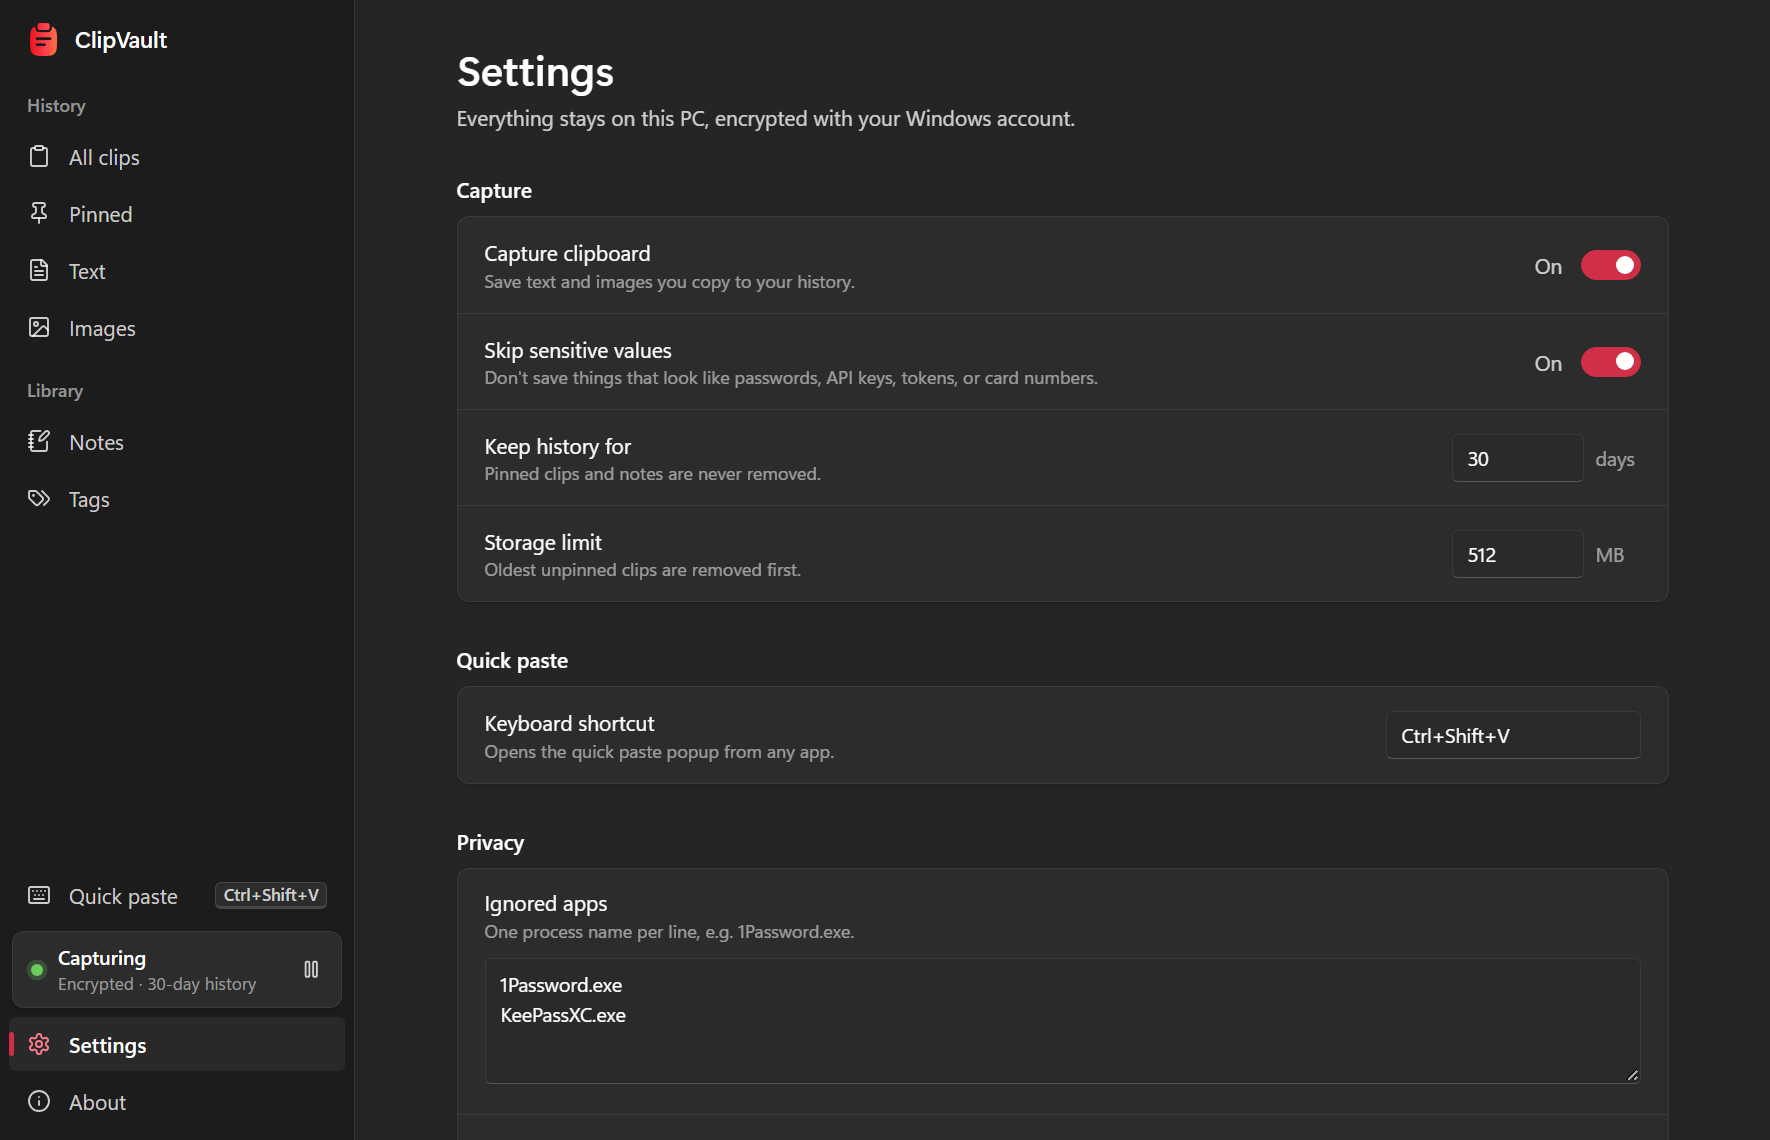
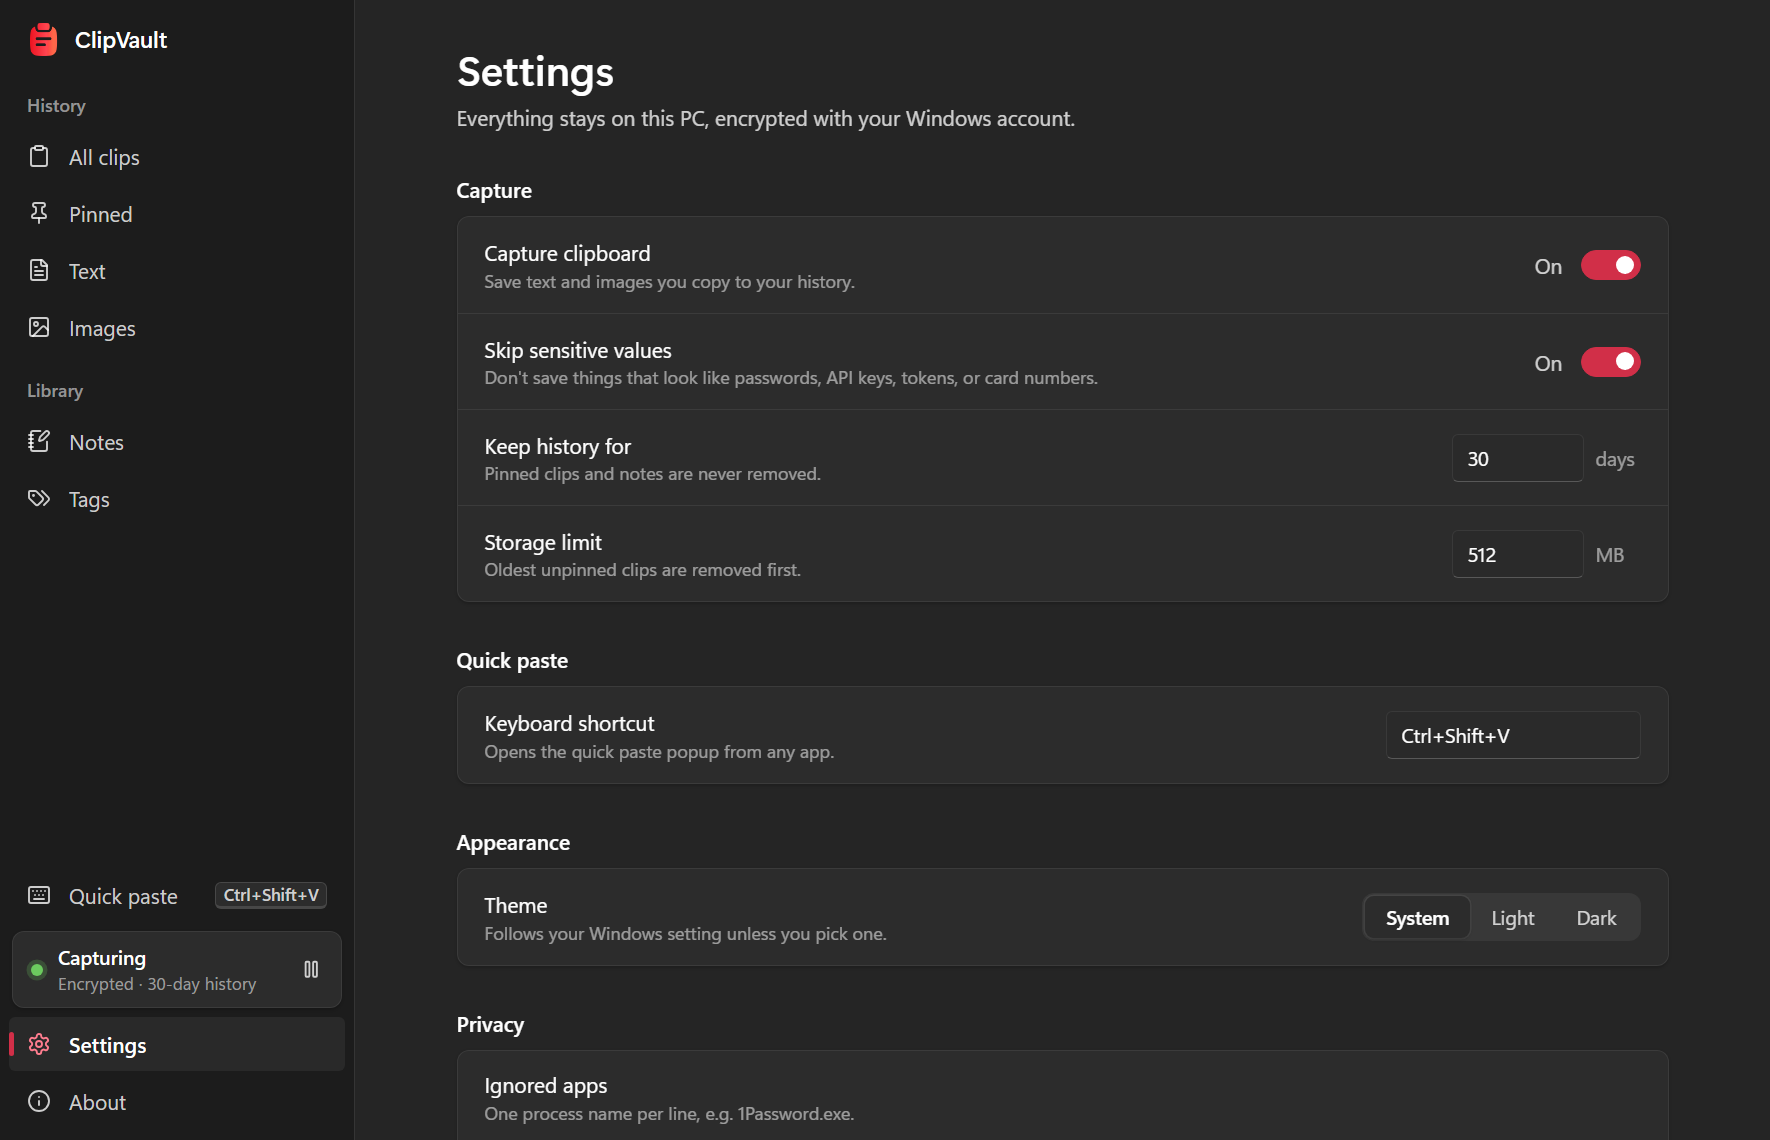
Release 1.4.0: free-to-use license and Appearance setting
- Replace the all-rights-reserved license with a free-to-use license (personal
  and commercial use, share the unmodified installer; source published for
  review and personal builds; modified redistribution and resale need
  permission). Update README, About page, package metadata, and installer text.
- Add Settings -> Appearance (System / Light / Dark), shared by the main window
  and the quick paste popup.
- Add ?theme= and ?select= to the browser demo; add light-mode and multi-select
  screenshots and refresh Settings; update docs and changelog.

diff --git a/src/components/SettingsPanel.tsx b/src/components/SettingsPanel.tsx
@@ -4,6 +4,8 @@ import type { ReactNode } from "react";
 import { version } from "../../package.json";
 import clipvaultIcon from "../assets/clipvault-icon.png";
 import { checkForUpdate, exportBackup, getSettings, importBackup, installUpdate, openExternal, updateSettings } from "../api";
+import { getTheme, setTheme } from "../lib/theme";
+import type { ThemeChoice } from "../lib/theme";
 import type { AppSettings, UpdateInfo } from "../types";
 
 export function SettingsPanel({
@@ -81,6 +83,12 @@ export function SettingsPanel({
           </SettingRow>
         </SettingsGroup>
 
+        <SettingsGroup title="Appearance">
+          <SettingRow label="Theme" description="Follows your Windows setting unless you pick one.">
+            <ThemePicker />
+          </SettingRow>
+        </SettingsGroup>
+
         <SettingsGroup title="Privacy">
           <SettingRow label="Ignored apps" description="One process name per line, e.g. 1Password.exe." stacked>
             <ListField value={settings.excludedApps} onCommit={(value) => patch({ excludedApps: value })} placeholder="KeePassXC.exe" />
@@ -137,6 +145,35 @@ export function SettingsPanel({
         </SettingsGroup>
       </div>
     </section>
+  );
+}
+
+const themeOptions: Array<{ key: ThemeChoice; label: string }> = [
+  { key: "system", label: "System" },
+  { key: "light", label: "Light" },
+  { key: "dark", label: "Dark" }
+];
+
+function ThemePicker() {
+  const [choice, setChoice] = useState<ThemeChoice>(getTheme);
+
+  return (
+    <div className="segmented" role="radiogroup" aria-label="Theme">
+      {themeOptions.map((option) => (
+        <button
+          key={option.key}
+          role="radio"
+          aria-checked={choice === option.key}
+          className={choice === option.key ? "on" : ""}
+          onClick={() => {
+            setTheme(option.key);
+            setChoice(option.key);
+          }}
+        >
+          {option.label}
+        </button>
+      ))}
+    </div>
   );
 }
 
@@ -327,7 +364,7 @@ export function InfoPanel({ update, onUpdateFound, onToast }: { update: UpdateIn
             </button>
           </SettingRow>
           <SettingRow label="License">
-            <span className="setting-value">Copyright Amirsalar Saberi rad. All rights reserved.</span>
+            <span className="setting-value">Free to use. Copyright © 2026 Amirsalar Saberi rad.</span>
           </SettingRow>
         </SettingsGroup>
       </div>

diff --git a/src/styles.css b/src/styles.css
@@ -56,7 +56,7 @@
 }
 
 @media (prefers-color-scheme: light) {
-  :root {
+  :root:not([data-theme="dark"]) {
     color-scheme: light;
 
     --bg-base: #eeeeee;
@@ -92,6 +92,43 @@
     --shadow-flyout: 0 8px 24px rgb(0 0 0 / 0.14), 0 0 0 1px rgb(0 0 0 / 0.05);
     --shadow-card: 0 1px 2px rgb(0 0 0 / 0.05);
   }
+}
+
+:root[data-theme="light"] {
+  color-scheme: light;
+
+  --bg-base: #eeeeee;
+  --bg-layer: #f8f8f8;
+  --bg-card: #ffffff;
+  --bg-card-hover: #f6f6f6;
+  --bg-input: #ffffff;
+  --bg-flyout: #f9f9f9;
+  --bg-subtle-hover: rgb(0 0 0 / 0.045);
+  --bg-subtle-active: rgb(0 0 0 / 0.07);
+  --bg-checker-a: #f1f1f1;
+  --bg-checker-b: #e6e6e6;
+
+  --stroke: rgb(0 0 0 / 0.075);
+  --stroke-strong: rgb(0 0 0 / 0.12);
+  --stroke-control: rgb(0 0 0 / 0.36);
+
+  --text: #1a1a1a;
+  --text-2: rgb(0 0 0 / 0.68);
+  --text-3: rgb(0 0 0 / 0.52);
+  --text-disabled: rgb(0 0 0 / 0.36);
+
+  --accent: #c0263e;
+  --accent-fill: #d12f48;
+  --accent-fill-hover: #bf2840;
+  --accent-soft: rgb(209 47 72 / 0.09);
+
+  --success: #0f7b0f;
+  --warning: #9d5d00;
+  --warning-bg: #fff4ce;
+  --danger: #c42b1c;
+
+  --shadow-flyout: 0 8px 24px rgb(0 0 0 / 0.14), 0 0 0 1px rgb(0 0 0 / 0.05);
+  --shadow-card: 0 1px 2px rgb(0 0 0 / 0.05);
 }
 
 * {
@@ -1565,6 +1602,37 @@ kbd {
   justify-content: flex-end;
   gap: 8px;
   margin-top: 22px;
+}
+
+.segmented {
+  display: inline-flex;
+  padding: 2px;
+  border-radius: 8px;
+  background: var(--bg-subtle-hover);
+}
+
+.segmented button {
+  height: 28px;
+  padding: 0 14px;
+  border: 0;
+  border-radius: 6px;
+  background: transparent;
+  color: var(--text-2);
+  font-size: 13px;
+  transition:
+    background 100ms ease,
+    color 100ms ease;
+}
+
+.segmented button:hover:not(.on) {
+  color: var(--text);
+}
+
+.segmented button.on {
+  background: var(--bg-card);
+  color: var(--text);
+  font-weight: 600;
+  box-shadow: var(--shadow-card), 0 0 0 1px var(--stroke);
 }
 
 /* ---------- Settings & About ---------- */

diff --git a/src/lib/theme.ts b/src/lib/theme.ts
@@ -1,0 +1,43 @@
+export type ThemeChoice = "system" | "light" | "dark";
+
+const STORAGE_KEY = "clipvault.theme";
+
+function isChoice(value: unknown): value is ThemeChoice {
+  return value === "system" || value === "light" || value === "dark";
+}
+
+export function getTheme(): ThemeChoice {
+  try {
+    const saved = window.localStorage.getItem(STORAGE_KEY);
+    return isChoice(saved) ? saved : "system";
+  } catch {
+    return "system";
+  }
+}
+
+function apply(choice: ThemeChoice) {
+  const root = document.documentElement;
+  if (choice === "system") delete root.dataset.theme;
+  else root.dataset.theme = choice;
+}
+
+export function setTheme(choice: ThemeChoice) {
+  try {
+    if (choice === "system") window.localStorage.removeItem(STORAGE_KEY);
+    else window.localStorage.setItem(STORAGE_KEY, choice);
+  } catch {
+    // The choice still applies for this session.
+  }
+  apply(choice);
+}
+
+/** Applies the saved theme. `?theme=light|dark` overrides it without saving (used for documentation screenshots). */
+export function initTheme() {
+  const override = new URLSearchParams(window.location.search).get("theme");
+  apply(isChoice(override) ? override : getTheme());
+
+  // The main window and the quick paste popup share storage, so a change in one updates the other.
+  window.addEventListener("storage", (event) => {
+    if (event.key === STORAGE_KEY || event.key === null) apply(getTheme());
+  });
+}

diff --git a/src/App.tsx b/src/App.tsx
@@ -168,6 +168,17 @@ function MainShell() {
     return () => window.clearTimeout(timer);
   }, [loadItems, query]);
 
+  const demoSelectApplied = useRef(false);
+  useEffect(() => {
+    // Browser demo only: ?select=0,2,3 opens with those rows ticked (documentation screenshots).
+    if (isTauriRuntime() || demoSelectApplied.current || items.length === 0) return;
+    const spec = new URLSearchParams(window.location.search).get("select");
+    if (!spec) return;
+    demoSelectApplied.current = true;
+    setSelectMode(true);
+    setChecked(new Set(spec.split(",").map((index) => items[Number(index)]?.id).filter((id): id is string => Boolean(id))));
+  }, [items]);
+
   useEffect(() => {
     setChecked((current) => {
       const visible = new Set(items.map((item) => item.id));

diff --git a/src/main.tsx b/src/main.tsx
@@ -1,7 +1,10 @@
 import React from "react";
 import ReactDOM from "react-dom/client";
 import App from "./App";
+import { initTheme } from "./lib/theme";
 import "./styles.css";
+
+initTheme();
 
 ReactDOM.createRoot(document.getElementById("root") as HTMLElement).render(
   <React.StrictMode>

diff --git a/README.md b/README.md
@@ -6,7 +6,7 @@
 
 **Windows only remembers the last thing you copied. ClipVault remembers everything, and keeps it private.**
 
-[![Latest release](https://img.shields.io/github/v/release/AMIRSRAD/ClipVault?label=latest%20release)](https://github.com/AMIRSRAD/ClipVault/releases/latest) ![Platform: Windows 10/11](https://img.shields.io/badge/platform-Windows%2010%20%7C%2011-0078D4) ![Encrypted on your PC](https://img.shields.io/badge/data-encrypted%20%26%20local-2ea44f)
+[![Latest release](https://img.shields.io/github/v/release/AMIRSRAD/ClipVault?label=latest%20release)](https://github.com/AMIRSRAD/ClipVault/releases/latest) ![Platform: Windows 10/11](https://img.shields.io/badge/platform-Windows%2010%20%7C%2011-0078D4) ![Encrypted on your PC](https://img.shields.io/badge/data-encrypted%20%26%20local-2ea44f) ![Free to use](https://img.shields.io/badge/price-free-2ea44f)
 
 [**Part 1: For everyone**](#part-1-for-everyone) &nbsp;·&nbsp; [**Part 2: How it works**](#part-2-how-it-works-technical) &nbsp;·&nbsp; [**Part 3: Build it yourself**](#part-3-getting-started-and-building)
 
@@ -30,7 +30,7 @@ Every time you copy something on your computer (a sentence, a link, an address, 
 
 **ClipVault fixes that.** It quietly remembers everything you copy, so you can bring any of it back later: the address you copied yesterday, the link from this morning, the screenshot you took an hour ago. Press one shortcut, pick what you want, and it is pasted right where you are typing.
 
-It lives in the background (look for the small icon near the clock), uses very little battery or memory, and **everything stays on your own PC, locked with encryption.** There is no account, no cloud, and no tracking.
+It lives in the background (look for the small icon near the clock), uses very little battery or memory, and **everything stays on your own PC, locked with encryption.** There is no account, no cloud, and no tracking. **ClipVault is free for everyone to use**, at home or at work.
 
 ## What can I do with it?
 
@@ -49,7 +49,7 @@ It lives in the background (look for the small icon near the clock), uses very l
 You need **Windows 10 or 11 (64-bit)**. You do **not** need an administrator password.
 
 1. Open the **[latest release page](https://github.com/AMIRSRAD/ClipVault/releases/latest)**.
-2. Under **Assets**, click **`ClipVault_1.3.0_x64-setup.exe`** to download it.
+2. Under **Assets**, click **`ClipVault_1.4.0_x64-setup.exe`** to download it.
 3. Open the downloaded file.
    - Windows may show a blue box saying *"Windows protected your PC"*. That happens for any newer program that isn't from a big publisher. Click **More info**, then **Run anyway**.
 4. Click through the installer. Two questions are worth a look:
@@ -75,7 +75,11 @@ Press **`Ctrl` + `Shift` + `V`** in any app. A small popup appears at the bottom
   <img src="docs/assets/quick-paste-light.png" alt="The quick paste popup in light mode" width="300">
 </p>
 
-ClipVault follows your Windows **light or dark** setting automatically.
+ClipVault follows your Windows **light or dark** setting automatically. Prefer one or the other? Choose **System, Light, or Dark** under **Settings → Appearance**.
+
+<p align="center">
+  <img src="docs/assets/main-window-light.png" alt="The main window in light mode" width="860">
+</p>
 
 ### Paste several things at once
 
@@ -99,9 +103,13 @@ Save things you paste again and again: a standard email reply, an address, a che
 
 Click the checklist button above the list (or hold **Ctrl** / **Shift** while clicking) to select many items at once. You can then copy their text, pin them, or delete them together. The **…** menu has **Clear history**, which asks first and lets you keep pinned items and notes.
 
+<p align="center">
+  <img src="docs/assets/main-select.png" alt="Three items selected, with Copy text, Pin, and Delete actions" width="860">
+</p>
+
 ### Settings you actually understand
 
-Choose how long to keep history, which apps to ignore, the shortcut, and whether ClipVault starts with Windows. Every setting has a plain-English description.
+Choose how long to keep history, which apps to ignore, the shortcut, the theme, and whether ClipVault starts with Windows. Every setting has a plain-English description.
 
 <p align="center">
   <img src="docs/assets/settings.png" alt="The Settings page" width="860">
@@ -289,7 +297,7 @@ docs/                    ARCHITECTURE.md, RELEASE_CHECKLIST.md, screenshots
 
 # Part 3: Getting started and building
 
-> **A note on the license.** ClipVault's source is published for transparency and review. It is released under an all-rights-reserved license (see [License](#license)): copying, modifying, distributing or using it requires the author's written permission. These instructions are for the maintainer, for people who have that permission, and for anyone checking how releases are built.
+> **A note on the license.** ClipVault is free to use, and the source is published so anyone can read it, check what it does, and build it for their own use. Distributing modified versions or reselling it needs the author's written permission. The full terms are in [`LICENSE`](LICENSE).
 
 ## What you need
 
@@ -326,7 +334,7 @@ pnpm install --frozen-lockfile
 pnpm dev
 ```
 
-Open <http://localhost:1420>. Add `?palette` to the address to see the quick paste popup, or `?view=notes` / `?view=settings` to jump to a page.
+Open <http://localhost:1420>. Add `?palette` to the address to see the quick paste popup, `?view=notes` / `?view=settings` to jump to a page, `?theme=light` or `?theme=dark` to force a theme, and `?select=0,2,3` to open with those rows ticked.
 
 **The full desktop app** (real clipboard, tray, shortcut, encryption):
 
@@ -386,6 +394,6 @@ Releases are signed and published as GitHub releases with a `latest.json` manife
 ## Creator and license
 
 - Creator: **Amirsalar Saberi rad** · [amirsrad.ir](https://amirsrad.ir)
-- License: Copyright © 2026 Amirsalar Saberi rad. **All rights reserved.** See [`LICENSE`](LICENSE).
+- License: **free to use** (personal or commercial), source available for review and personal builds; modified redistribution and resale need permission. Copyright © 2026 Amirsalar Saberi rad. See [`LICENSE`](LICENSE).
 
 Screenshots in this README use sample data.

diff --git a/docs/ARCHITECTURE.md b/docs/ARCHITECTURE.md
@@ -14,6 +14,7 @@ ClipVault is a Windows-first Tauri desktop app. Rust owns OS integration and per
 - `src/components/DetailPanel.tsx` is the preview pane: command bar, preview/note editor, OCR, suggested actions, paste-as transforms, and tag editor.
 - `src/components/SettingsPanel.tsx` contains the Settings and About pages.
 - `src/components/QuickPaste.tsx` is the quick paste popup, used both as its own window and as an overlay in the main window. Design rules: search is the only boxed element, the list is flat (no card borders), metadata is one muted line, actions appear on hover, and the footer is a single line of hints. The window itself is undecorated with `shadow: true`, which gives it native Windows 11 rounded corners, border, and shadow.
+- `src/lib/theme.ts` stores the System/Light/Dark choice in `localStorage`, sets `data-theme` on `<html>`, and keeps the main window and popup in sync through the `storage` event. `styles.css` applies the light tokens either through `prefers-color-scheme` (unless `data-theme="dark"`) or `data-theme="light"`.
 - `src/lib/clip.ts` holds pure helpers: formatting, content detection, paste transforms, fuzzy ranking, and day grouping.
 - `src/api.ts` wraps Tauri commands and browser-demo fallbacks.
 - `src/types.ts` defines shared frontend models.
@@ -30,7 +31,7 @@ The About view shows the version, update status, and creator, website, and licen
 
 - Creator: Amirsalar Saberi rad.
 - Website: `https://amirsrad.ir`.
-- License: all rights reserved by Amirsalar Saberi rad.
+- License: free to use; source published for review (see `LICENSE`).
 
 The quick paste popup shows pinned items first, then recent ones, and uses local fuzzy reranking over a recent item pool for typo-tolerant search.
 
@@ -77,7 +78,7 @@ Backup export/import uses a `clipvault-dpapi-v1:` text payload. It includes sett
 
 ## Ownership And Licensing
 
-ClipVault is proprietary software owned by Amirsalar Saberi rad. The root `LICENSE` file is the source of truth for repository licensing and currently states that all rights are reserved.
+ClipVault is owned by Amirsalar Saberi rad and is free to use. The root `LICENSE` file is the source of truth: anyone may download, install, and use the app (personally or commercially) and share the unmodified official installer; the source is published for review and personal builds, and distributing modified versions or reselling needs written permission. The same text is shown on the installer's license page.
 
 ## OS Integration
 

diff --git a/docs/RELEASE_CHECKLIST.md b/docs/RELEASE_CHECKLIST.md
@@ -58,6 +58,7 @@ pnpm tauri build
 - Pause and resume capture from the sidebar and confirm the banner appears and clears.
 - Open the quick paste popup in light and dark mode; confirm rounded corners, search focus, tab switching with `Tab`, hover actions, and pinning with `Ctrl+P`.
 - Open Settings -> Updates and use **Check now**.
+- Switch Settings -> Appearance between System, Light, and Dark; confirm the main window and an open popup both follow, and that System follows the Windows setting again.
 - Select several items (checklist button, Shift-click range, `Ctrl+A`), then pin, copy, and delete them; confirm the delete dialog appears and Esc cancels it.
 - In the quick paste popup, select three text items (`Space`, hover checkbox, `Ctrl`-click), change **Join**, press `Enter`, and confirm they paste in pick order into Notepad; confirm images can't be selected and `Esc` clears the selection first.
 - Use **...** -> **Clear history** with both keep options ticked and confirm pinned clips and notes remain; repeat with both unticked.
@@ -65,7 +66,7 @@ pnpm tauri build
 
 ## README Screenshots
 
-The README images in `docs/assets/` are rendered from the browser demo build with its built-in sample data (`pnpm dev`, then open `http://localhost:1420/`). Use `?view=notes` or `?view=settings` for other pages and `?palette` for the popup at a 370x540 viewport. Regenerate them when the UI changes, and never use real clipboard contents.
+The README images in `docs/assets/` are rendered from the browser demo build with its built-in sample data (`pnpm dev`, then open `http://localhost:1420/`). Use `?view=notes` or `?view=settings` for other pages, `?theme=light|dark` to force a theme, `?select=0,2,3` for the multi-select state, and `?palette` for the popup at a 370x540 viewport. Regenerate them when the UI changes, and never use real clipboard contents.
 
 ## Idle Performance Check
 

diff --git a/CHANGELOG.md b/CHANGELOG.md
@@ -1,5 +1,15 @@
 # Changelog
 
+## 1.4.0 - 2026-11-18
+
+### Added
+- Appearance setting (Settings -> Appearance): choose System, Light, or Dark. The choice applies to the main window and the quick paste popup and is remembered.
+
+### Changed
+- ClipVault is now free to use. The new `LICENSE` lets anyone download, install, and use the app (personally or commercially) and share the unmodified official installer; the source stays published for review and personal builds, and distributing modified versions or reselling needs written permission. The installer's license page, About page, and package metadata were updated to match.
+- README: added light-mode and multi-select screenshots, refreshed the Settings screenshot, and updated the license notes.
+- Browser demo build: `?theme=` and `?select=` options for documentation screenshots.
+
 ## 1.3.0 - 2026-11-18
 
 ### Added
